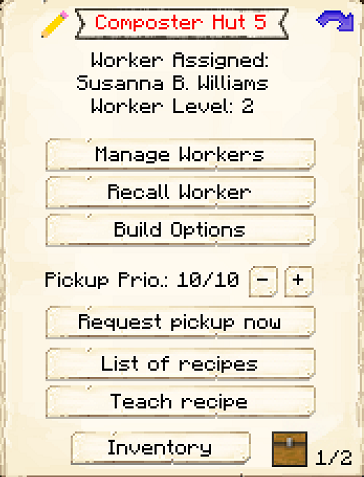
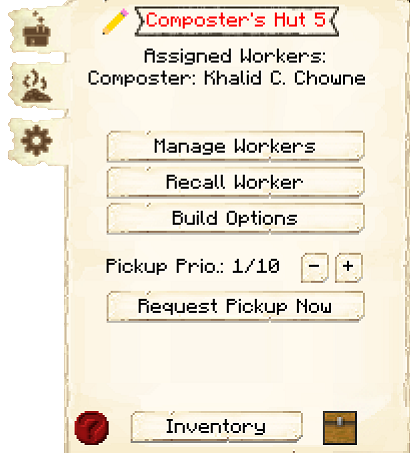
Composter Hut update

diff --git a/source/buildings/composter.md b/source/buildings/composter.md
@@ -38,7 +38,7 @@ The Composter's Hut is where the Composter will turn organic materials into [com
 
 ## Composter's Hut GUI
 
-When accessing the Composter's Hut block by right-clicking on it, you will see a GUI with different options:
+When accessing the Composter's Hut block by right-clicking on it, you will see a GUI with different options.   You start on the main tab:
 
 <br>
 <div class="row">
@@ -55,20 +55,30 @@ When accessing the Composter's Hut block by right-clicking on it, you will see a
   </div>
 </div>
 
-
-
-By pressing the arrow button in the top right corner of the GUI, you will be taken to page two of the GUI.
-
+<br>
 <div class="row">
-  <div class="col-sm-12 col-md">
-    <img src="../../assets/images/gui/compostergui2.png" class="img-fluid mx-auto" alt="Composter GUI 2">
-  </div>
-  <div class="col-sm-12 col-md">
-    <ul><br>
-      <li><strong>Items to compost:</strong> Here you will see a list of all the items that were recognized for the composter to use, including modded items. All items are off by default. You can then select which items you want the composter to use by clicking on the button. (The black box at the top lets you search for items.)</li><br>
-     <li><strong>Compost/Dirt:</strong> You can select which item you want the composter to make, compost or dirt. Just click on the button to change the setting.</li>
-    </ul>
-  </div>
+    <div class="col-sm-12 col-md">
+      <img src="../../assets/images/gui/compostergui2.png" class="img-fluid mx-auto" alt="Composter GUI 2">
+    </div>
+    <div class="col-sm-12 col-md">
+    <p>The second tab of the GUI is <strong>Items to Compost</strong>.</p>
+        <ul>
+          <li><strong>Items to compost:</strong> Here you will see a list of all the items that were recognized for the composter to use, including modded items. All items are off by default. You can then select which items you want the composter to use by clicking on the button. The black box at the top lets you search for items.</li>
+          <li><strong>Reset to Default:</strong> Resets all items to off.</li>
+        </ul>
+    </div>
 </div>
-<br>  
-  <br>
+
+<br>
+<div class="row">
+    <div class="col-sm-12 col-md">
+      <img src="../../assets/images/gui/compostergui3.png" class="img-fluid mx-auto" alt="Composter GUI 3">
+    </div>
+    <div class="col-sm-12 col-md">
+    <p>The third tab of the GUI is <strong>Settings</strong>.</p>
+        <ul>
+          <li><strong>Produce Dirt:</strong> Turning this on will make dirt instead of compost.  It also occassionally produces podzol.</li>
+          <li><strong>Min Warehouse Stock:</strong> This is the minimum number of an item to be left in the warehouse before the hut will request and compost other items.  The default is 16.</li>
+        </ul>
+    </div>
+</div>
